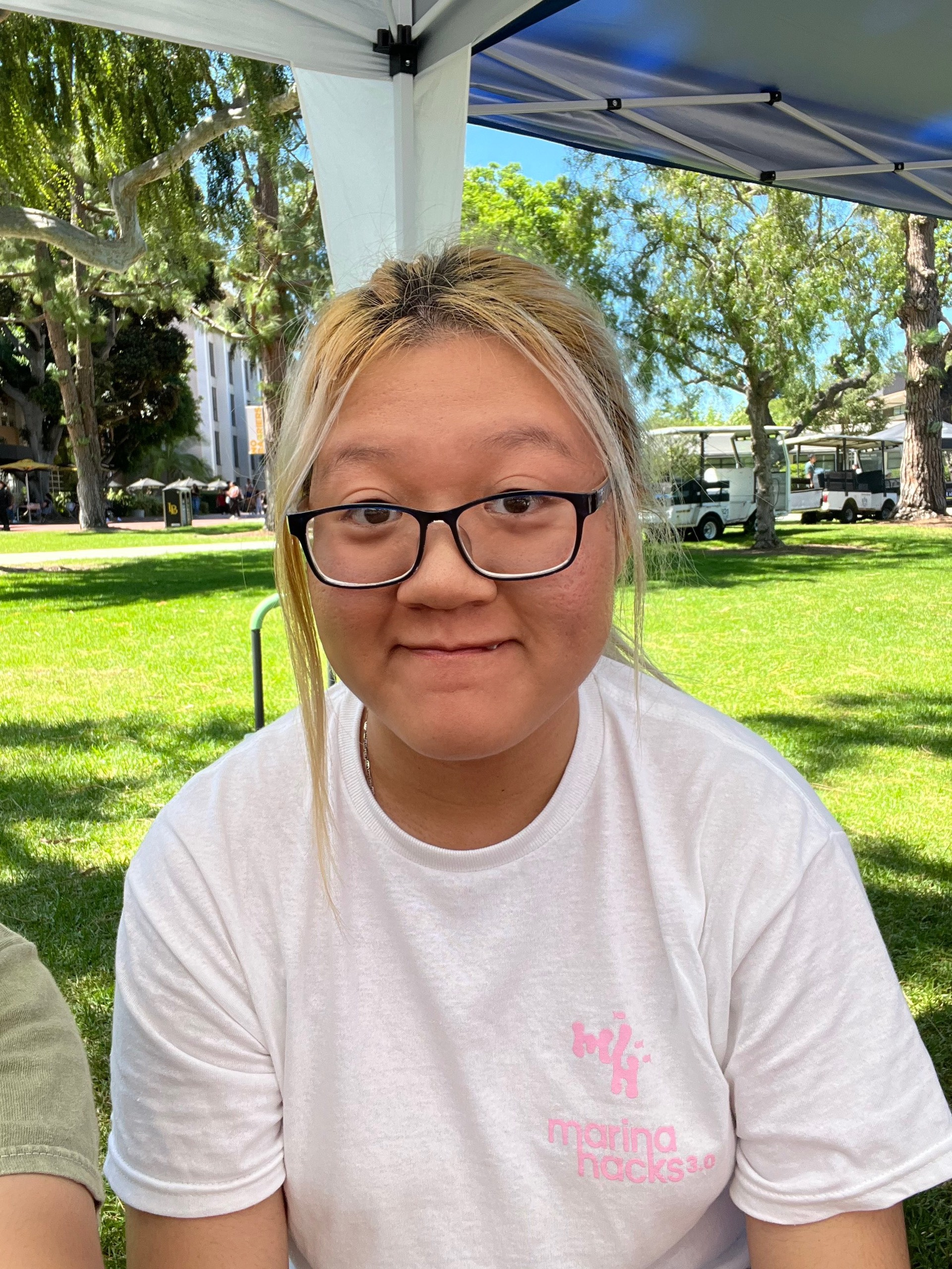
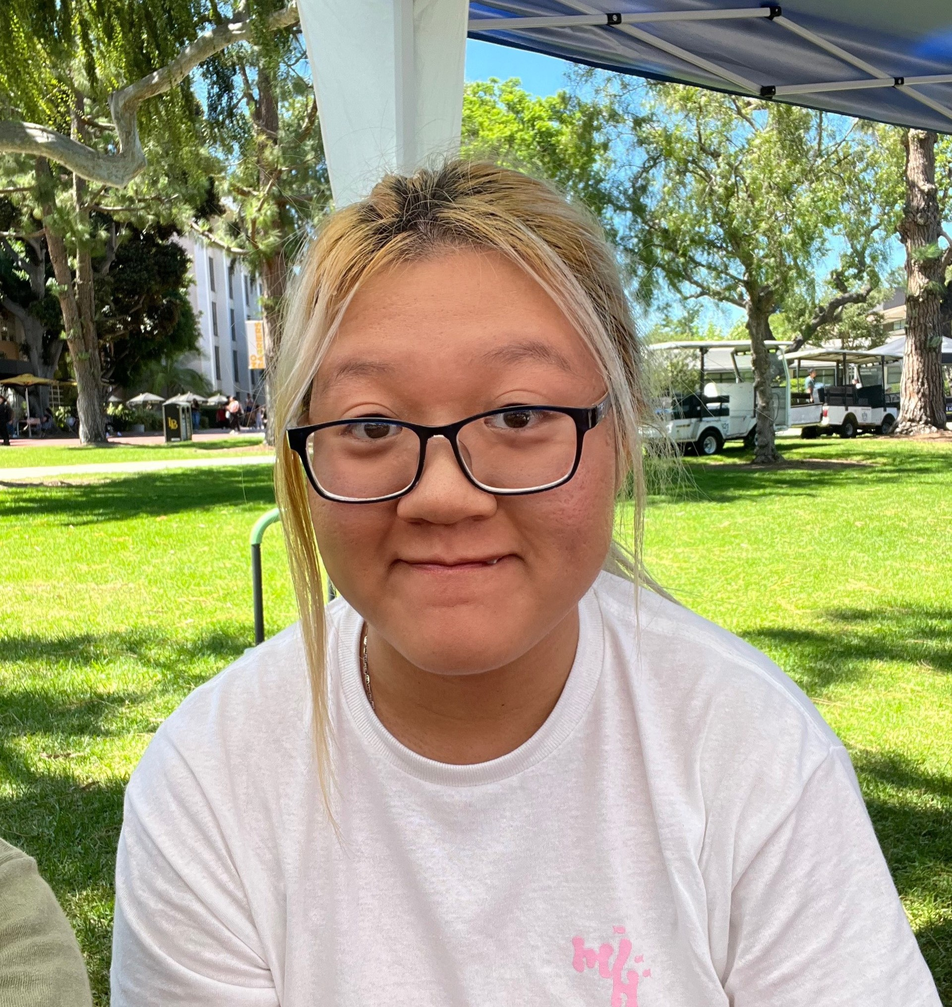
Edited pics
Cropped the officer pictures

diff --git a/index.html b/index.html
@@ -182,9 +182,9 @@
                                     </figcaption>
                                 </figure>
                                 <figure class="effect">
-                                    <img class="officer" src="images/officers/Melody Gatan.HEIC" alt="Melody ">
+                                    <img class="officer" src="images/officers/Melody Gatan.JPG" alt="Melody Gatan">
                                     <figcaption>
-                                        <h2><span>Melody</span><br>Secretary</h2>
+                                        <h2><span>Melody Gatan</span><br>Secretary</h2>
                                         <div class="overlay" onclick="">
                                             <h3>
                                                 <a href="https://www.linkedin.com/in/victoria-macali/" target="_blank">
